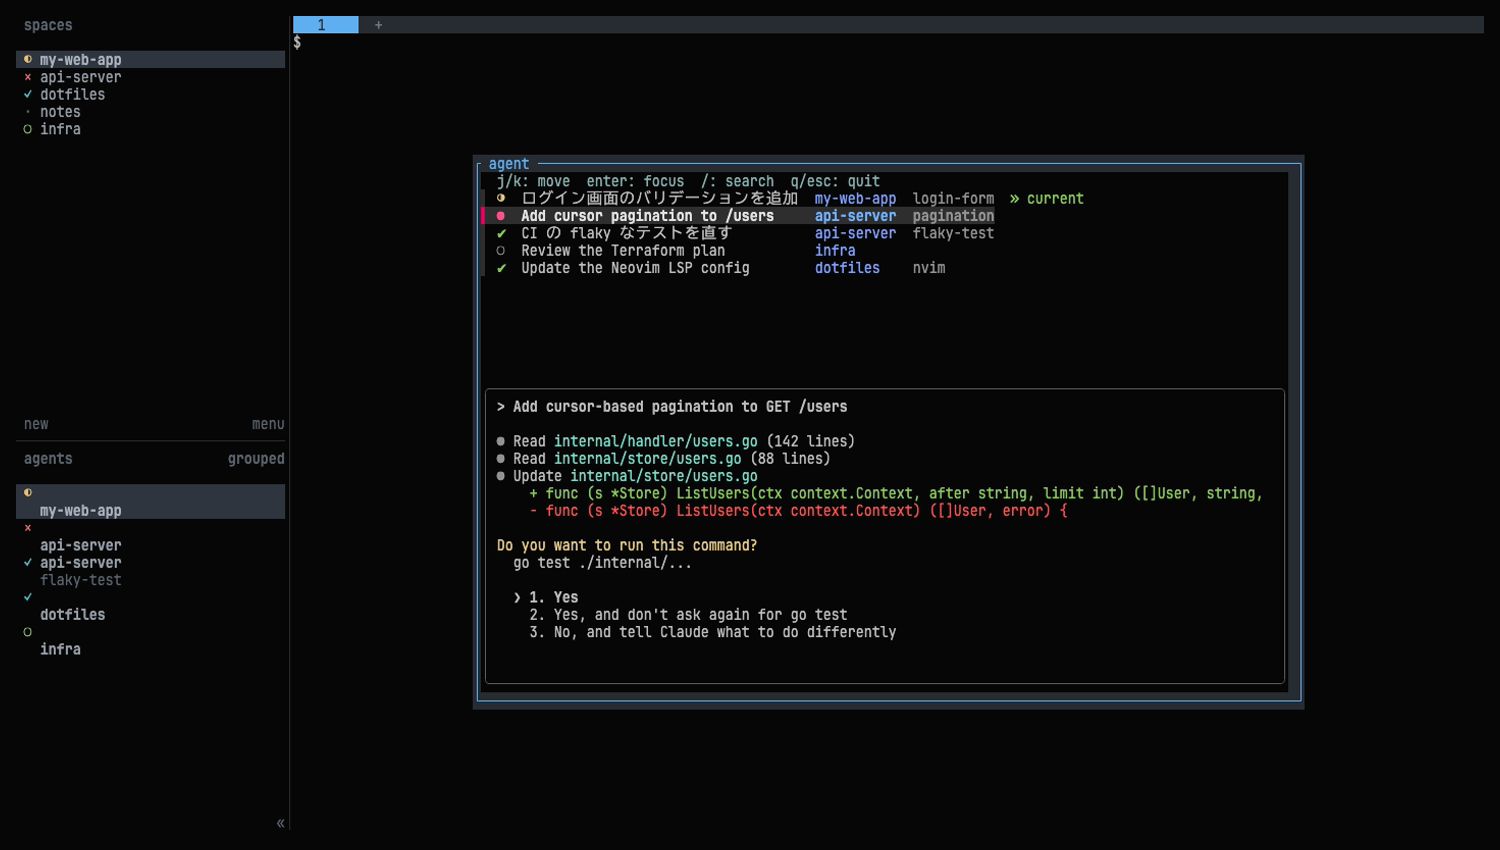
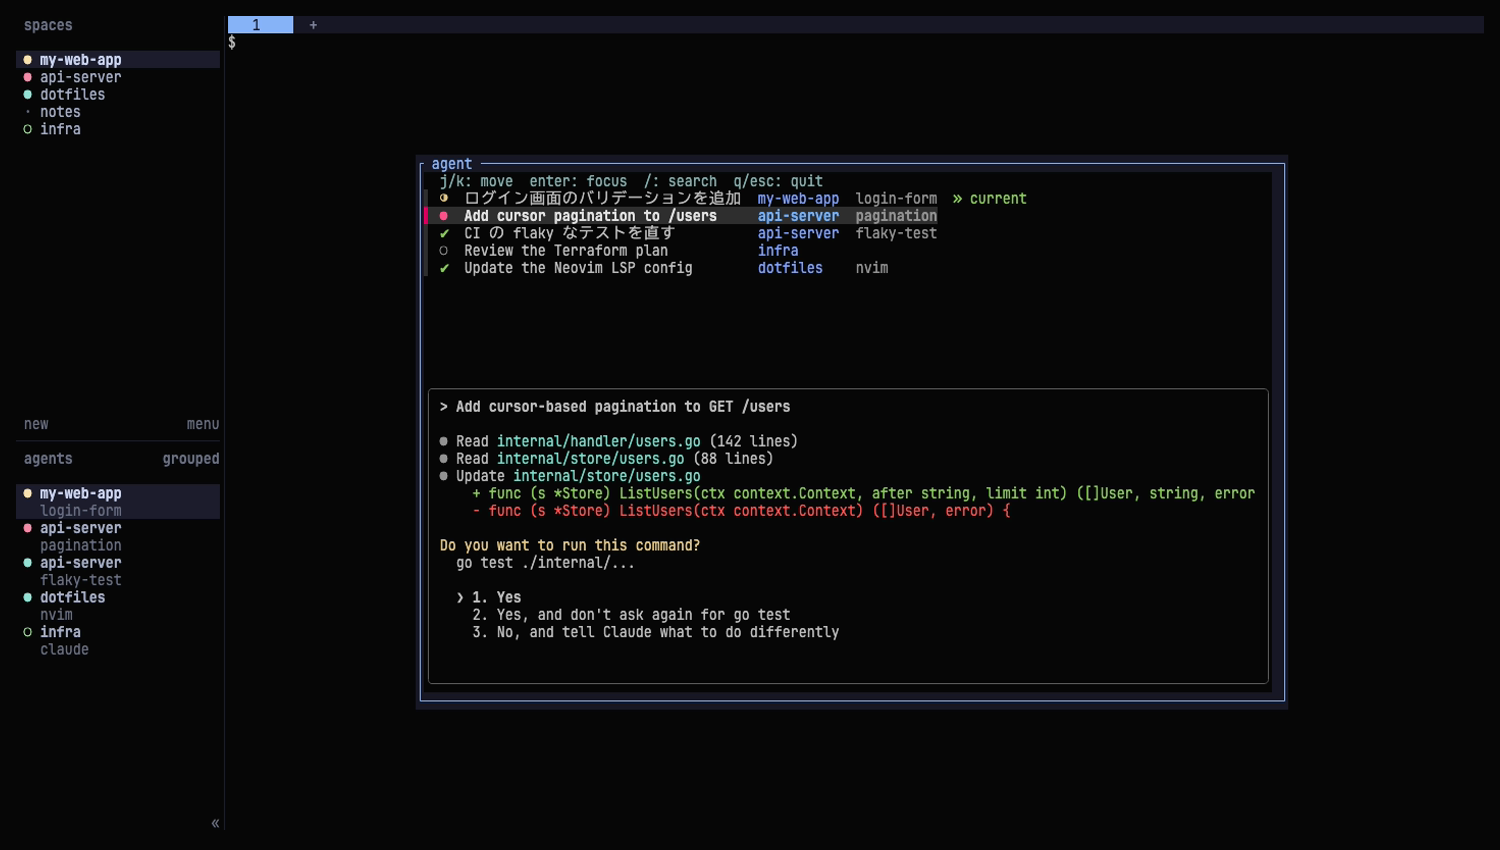
Demo: run the screenshot session with herdr's default config
The demo session read the user's config.toml, so the sidebar showed their
custom agent rows and theme. Point HERDR_CONFIG_PATH at demo/herdr-config.toml
and retake the screenshots.

Changed region(s): [[0.276, 0.1835, 0.8893, 0.8565], [0.0, 0.4894, 0.2147, 0.7953], [0.0, 0.0, 0.2453, 0.0918]]

diff --git a/.claude/skills/readme-screenshots/SKILL.md b/.claude/skills/readme-screenshots/SKILL.md
@@ -5,7 +5,7 @@ description: Regenerate the README screenshots (docs/images/*.png) from demo mod
 
 # README screenshots
 
-The screenshots come from **demo mode**, never from the user's real herdr session: a real session shows their directories, workspace names, agent titles and agent output, and the README is public. `demo/screenshots` runs `demo/screenshots.tape` in VHS against a throwaway herdr session (`herdr-vipicker-demo`) with made-up data (`demo/herdr`, `demo/bin/zoxide`) and a plain `$ ` shell (`demo/shell`), then deletes the session and restores `config.env`.
+The screenshots come from **demo mode**, never from the user's real herdr session: a real session shows their directories, workspace names, agent titles and agent output, and the README is public. `demo/screenshots` runs `demo/screenshots.tape` in VHS against a throwaway herdr session (`herdr-vipicker-demo`) with made-up data (`demo/herdr`, `demo/bin/zoxide`) a plain `$ ` shell (`demo/shell`) and herdr's default config (`demo/herdr-config.toml`, via `HERDR_CONFIG_PATH`, so the user's theme and sidebar rows don't show), then deletes the session and restores `config.env`.
 
 ## Steps
 
@@ -21,6 +21,8 @@ The screenshots come from **demo mode**, never from the user's real herdr sessio
 7. Commit the images on the work branch.
 
 ## When a shot is wrong
+
+- **Sidebar or theme looks like the user's own herdr:** `HERDR_CONFIG_PATH` didn't reach the session. `demo/screenshots` must export it after the loop that unsets `HERDR_*`.
 
 - **Shot shows a later or earlier state:** VHS captures with a lag. Lengthen the `Sleep` around that `Screenshot` in the tape.
 - **Text from the pane shows behind the popup:** the typed command printed output. Redirect it to `/dev/null` in the tape.
